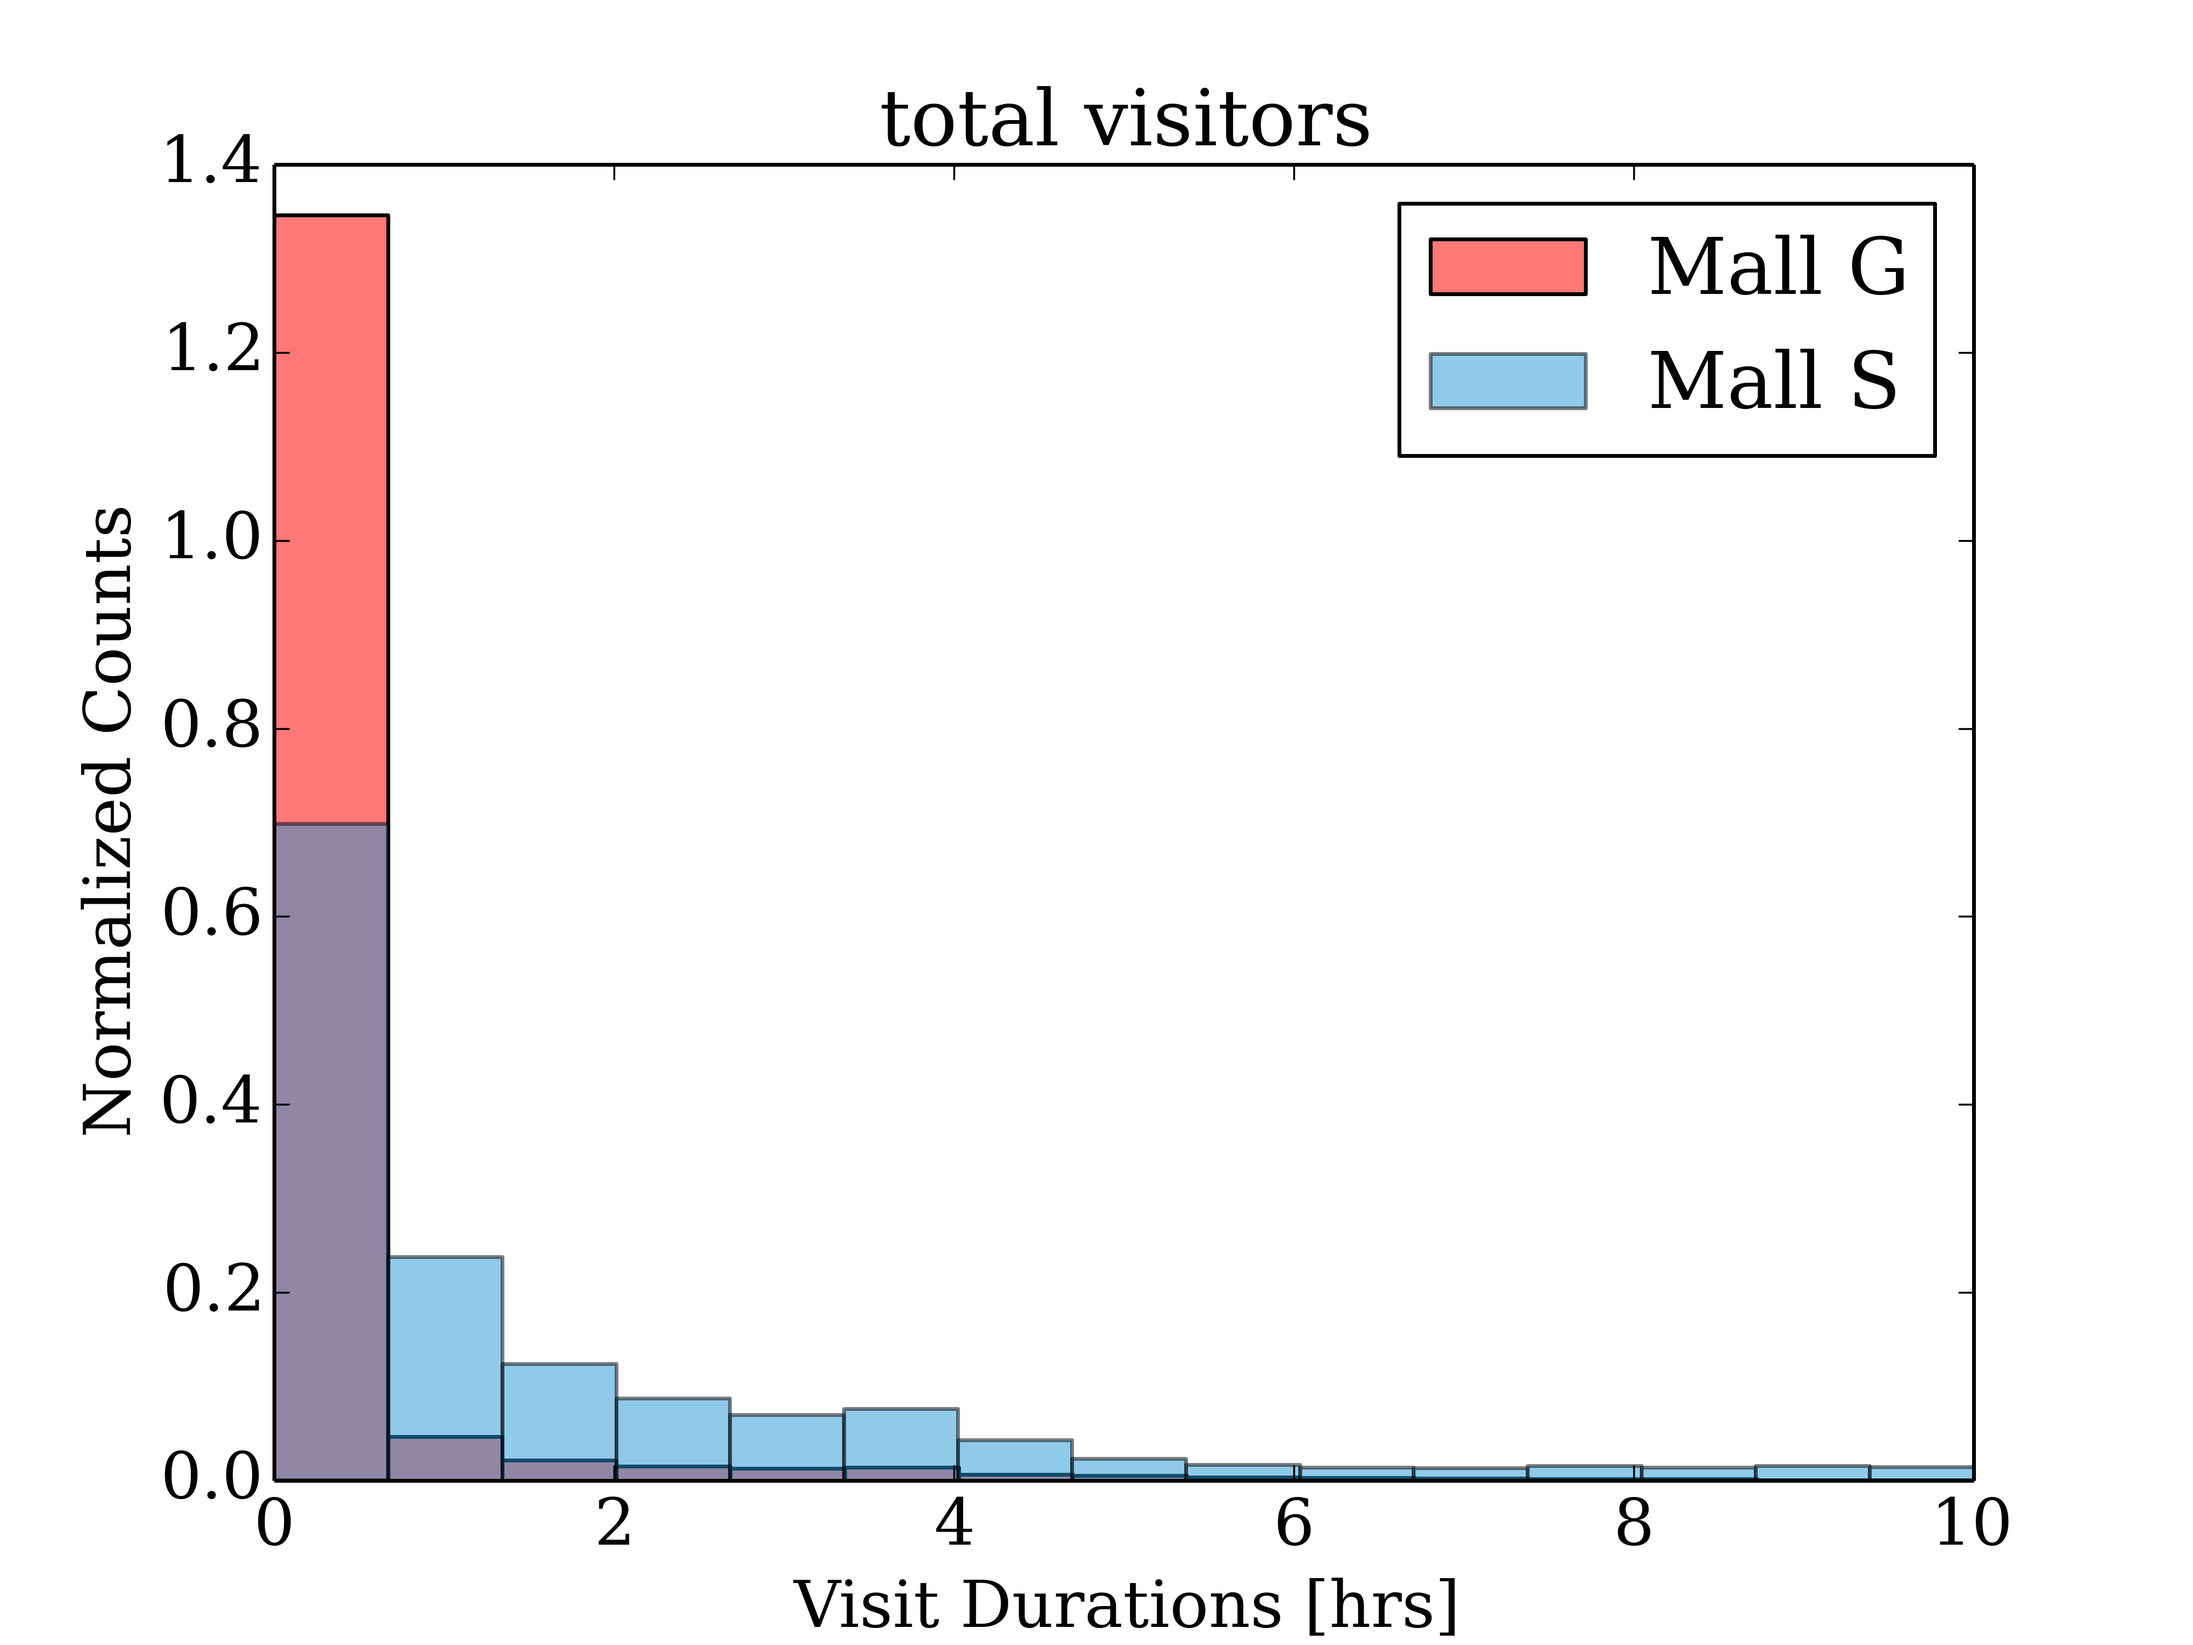
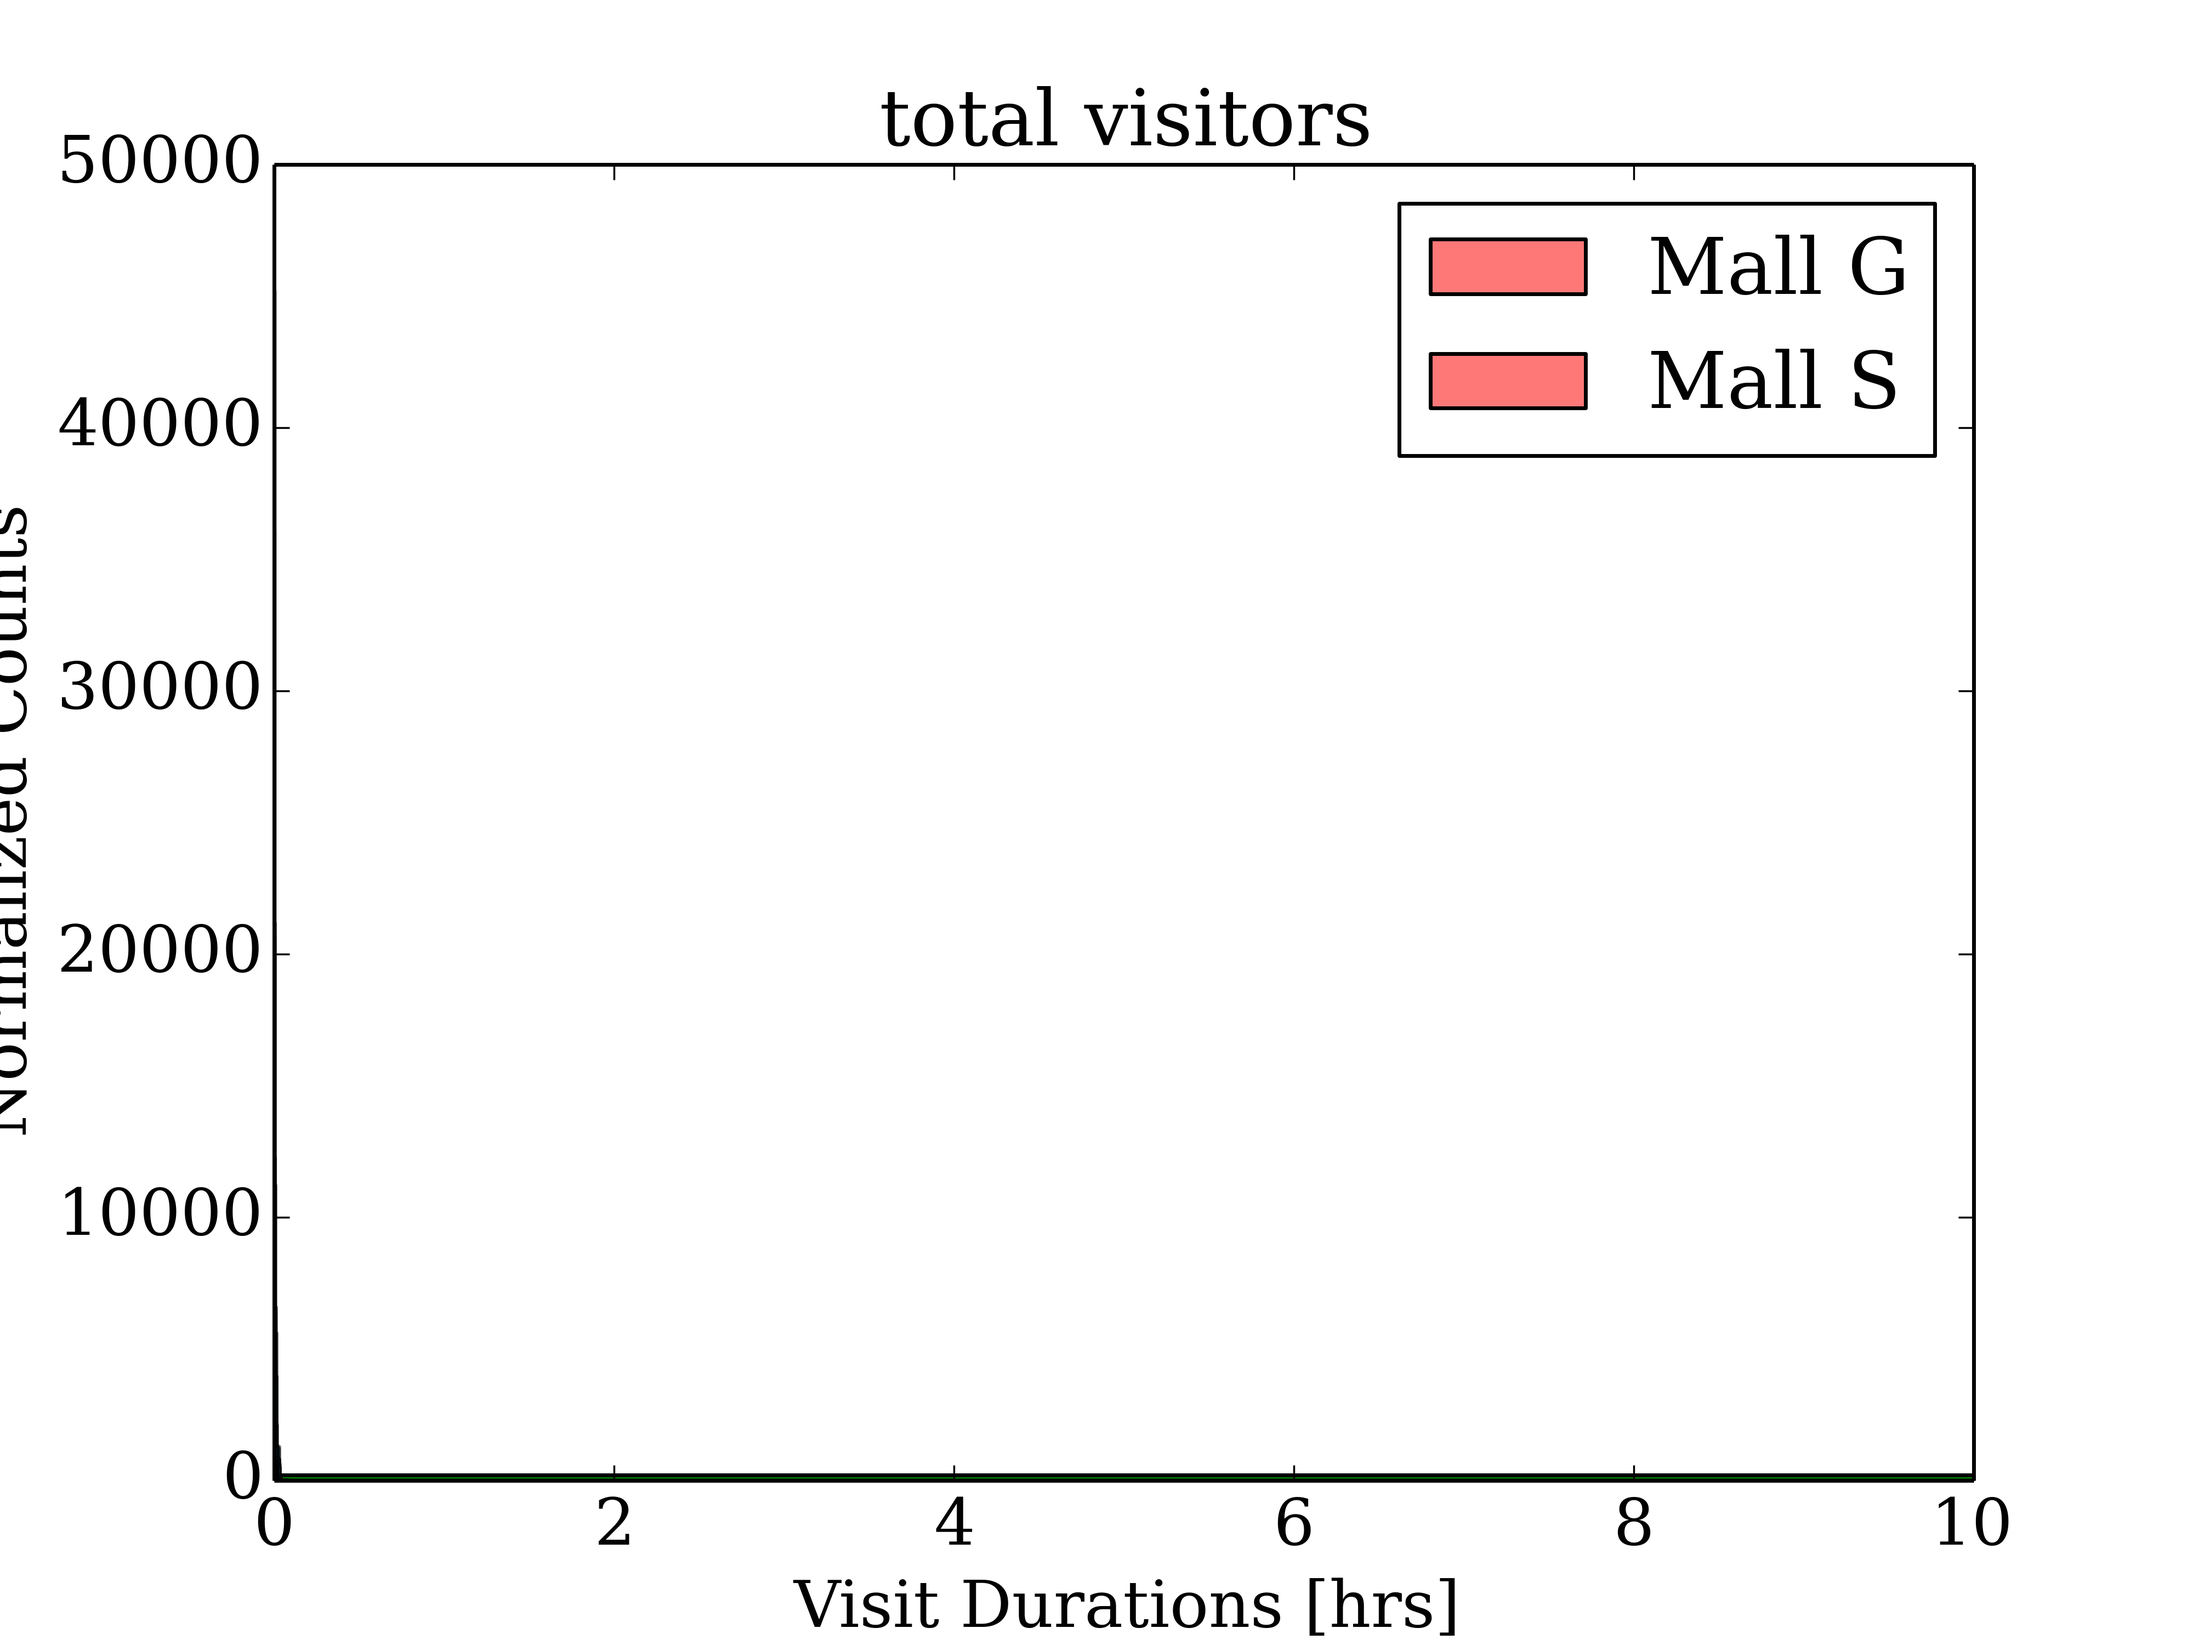
includes os

diff --git a/templates/onsite.html b/templates/onsite.html
@@ -47,7 +47,7 @@
 			</div>
 			
 					<h3 class="text-left"> There seem to be several users that register a large number of events at lunchtime. The highest number of events however, is registered at around the time at which the mall opens (9am). </h3>
-					<h3 class="text-left"> Now, let's select the lunch visitors as people that go to the mall between 12 noon and 2pm. At first, we don't cut the cohort further in terms of the duration of their visit, because it is possible that they stay at the mall longer than the typical length of lunch (1-2 hrs). </h3>
+					<h3 class="text-left"> Now, let's select the lunch visitors as people that go to the mall between 12 noon and 2pm. At first, we don't cut the cohort further in terms of the duration of their visit, because it is possible that they stay at the mall longer than the typical length of lunch (1-2 hrs). However, the selection of lunch-goers should probably be much more careful than this. For instance, one could model the background number of visitors and substract them from the overdensity that go just for lunch. Also it would be interesting to see whether there are regular lunch-goers, i.e. people that go for lunch more than once a week.</h3>
 					
 			
 					<br>

diff --git a/code/onsite.py b/code/onsite.py
@@ -43,7 +43,7 @@ totalS_ids = set(mS['uid'].values)
 # print "percentage lunch G: %s" % 100.*len(lunchG_ids)/len(totalG_ids) 
 # print "percentage lunch S: %s" % 100.*len(lunchS_ids)/len(totalS_ids) 
 #plot_events_vs_time(lunchG, lunchS, key='time_start')
-
+    
 def naive_durations(df, ids):
     ud = {}
     durations = []
@@ -66,8 +66,7 @@ aS = [d for d in allS_durations if d>0]
 def plot_lunch_durations(dG, dS, gbins=200, sbins=330, label='lunch'):
     plt.hist(dG, bins=gbins, normed=True, alpha=1, color='#FF7878')
     plt.hist(dS, bins=sbins, normed=True, alpha=0.5, color= '#2396D4')
-    # plt.hist([dG, dS], normed=True, bins=[gbins,sbins], alpha=1, 
-    #             color=['#FF7878','#2396D4'], linewidth=0.5, fill=True)
+    
     plt.xlim(0,10)
     plt.xlabel('Visit Durations [hrs]')
     plt.ylabel('Normalized Counts')
@@ -77,9 +76,8 @@ def plot_lunch_durations(dG, dS, gbins=200, sbins=330, label='lunch'):
     #plt.show()
     
 #plot_lunch_durations(dG, dS)
-plot_lunch_durations(aG, aS, gbins=500, sbins=500, label='total')
-  
-
+plot_lunch_durations(aG, aS, gbins=300, sbins=300, label='total')
+ 
 # what about people that go to the cinema? How long do they stay at the mall?
 cineG_a = mG[mG['time_start']>dt.time(19,50,00)]
 cineG = cineG_a[cineG_a['time_start']<dt.time(20,30,00)]

diff --git a/code/tools_onsite.py b/code/tools_onsite.py
@@ -31,3 +31,8 @@ def setup_data(df_list):
         df['hour'] = get_hour(df['start'].tolist())
         
     return df_list[0], df_list[1]
+
+def normalize_counts(df_days):
+    a = df_days.value_counts()
+    b = a.sort_index()
+    return b.index, 1.*b.values/len(df_days)
